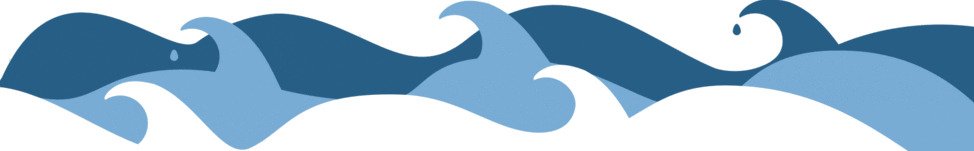
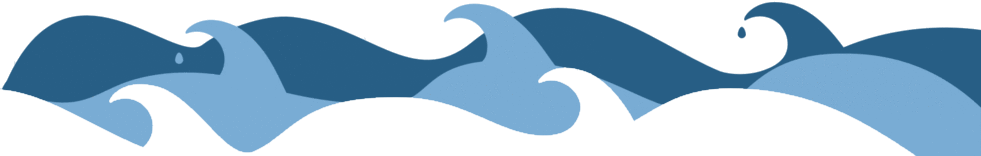
Added a sea

diff --git a/01.HTML5Canvas/JustFlappyBird/assets/js/main-browserified.js b/01.HTML5Canvas/JustFlappyBird/assets/js/main-browserified.js
@@ -10,6 +10,9 @@ var CONSTANTS = (function () {
 
         CLOUD_WIDTH: 256,
         CLOUD_HEIGHT: 256,
+
+        SEA_WIDTH: 981,
+        SEA_HEIGHT: 156
     }
 }());
 
@@ -109,7 +112,7 @@ var cloud = (function () {
                 this.scale = ((Math.random() * 5 | 0) + 1);
                 this.x = CONSTANTS.CANVAS_WIDTH - this.width;
                 this.y = 0;
-                this.speedX = 3;
+                this.speedX = 1;
 
                 return this;
             }
@@ -146,14 +149,31 @@ var sea = (function () {
             value: function (imagePath) {
                 this.image = new Image();
                 this.image.src = imagePath;
-                this.height = 256;
-                this.width = 256;
-                this.scale = ((Math.random() * 5 | 0) + 1);
-                this.x = CONSTANTS.CANVAS_WIDTH - this.width;
-                this.y = 0;
-                this.speedX = 3;
+                this.height = CONSTANTS.SEA_HEIGHT;
+                this.width = CONSTANTS.SEA_WIDTH;
+                this.scale = 0.9;
+                this.x = 0;
+                this.y = CONSTANTS.CANVAS_HEIGHT - this.height * 0.5 * this.scale;
+                this.speedX = 2;
 
                 return this;
+            }
+        },
+
+        update: {
+            value: function () {
+                this.x -= this.speedX;
+
+                if (this.x < -this.scale * this.width) {
+                    this.x = -50;
+                }
+            }
+        },
+
+        render: {
+            value: function (ctx) {
+                ctx.drawImage(this.image, this.x, this.y, this.scale * this.width, this.scale * this.height);
+                ctx.drawImage(this.image, this.x + this.scale * this.width - 50, this.y, this.scale * this.width, this.scale * this.height);
             }
         }
     });
@@ -167,7 +187,8 @@ window.onload = function () {
     var CONSTANTS = require('./common/constants.js');
     var bird = require('./game-objects/bird.js').init('assets/images/sprites/experiment.png');
     var cloud = require('./game-objects/cloud.js').init('assets/images/cloud.png');
-    var sea = require('./game-objects/sea.js').init('assets/images/sea.png');
+    var sea = require('./game-objects/sea.js').init('assets/images/sea-mod.png');
+
     var clouds = Array.apply(null, {length: 3})
         .map(function () {
             return Object.create(cloud);
@@ -219,9 +240,13 @@ window.onload = function () {
                 item.update();
             });
 
+            sea.update();
+
             clouds.forEach(function (item) {
                 item.render(ctx);
             });
+
+            sea.render(ctx);
             bird.render(ctx);
         }, 50);
     }

diff --git a/01.HTML5Canvas/JustFlappyBird/assets/js/game-objects/sea.js b/01.HTML5Canvas/JustFlappyBird/assets/js/game-objects/sea.js
@@ -6,14 +6,31 @@ var sea = (function () {
             value: function (imagePath) {
                 this.image = new Image();
                 this.image.src = imagePath;
-                this.height = 256;
-                this.width = 256;
-                this.scale = ((Math.random() * 5 | 0) + 1);
-                this.x = CONSTANTS.CANVAS_WIDTH - this.width;
-                this.y = 0;
-                this.speedX = 3;
+                this.height = CONSTANTS.SEA_HEIGHT;
+                this.width = CONSTANTS.SEA_WIDTH;
+                this.scale = 0.9;
+                this.x = 0;
+                this.y = CONSTANTS.CANVAS_HEIGHT - this.height * 0.5 * this.scale;
+                this.speedX = 2;
 
                 return this;
+            }
+        },
+
+        update: {
+            value: function () {
+                this.x -= this.speedX;
+
+                if (this.x < -this.scale * this.width) {
+                    this.x = -50;
+                }
+            }
+        },
+
+        render: {
+            value: function (ctx) {
+                ctx.drawImage(this.image, this.x, this.y, this.scale * this.width, this.scale * this.height);
+                ctx.drawImage(this.image, this.x + this.scale * this.width - 50, this.y, this.scale * this.width, this.scale * this.height);
             }
         }
     });

diff --git a/01.HTML5Canvas/JustFlappyBird/assets/js/main-node-style.js b/01.HTML5Canvas/JustFlappyBird/assets/js/main-node-style.js
@@ -2,7 +2,8 @@ window.onload = function () {
     var CONSTANTS = require('./common/constants.js');
     var bird = require('./game-objects/bird.js').init('assets/images/sprites/experiment.png');
     var cloud = require('./game-objects/cloud.js').init('assets/images/cloud.png');
-    var sea = require('./game-objects/sea.js').init('assets/images/sea.png');
+    var sea = require('./game-objects/sea.js').init('assets/images/sea-mod.png');
+
     var clouds = Array.apply(null, {length: 3})
         .map(function () {
             return Object.create(cloud);
@@ -54,9 +55,13 @@ window.onload = function () {
                 item.update();
             });
 
+            sea.update();
+
             clouds.forEach(function (item) {
                 item.render(ctx);
             });
+
+            sea.render(ctx);
             bird.render(ctx);
         }, 50);
     }

diff --git a/01.HTML5Canvas/JustFlappyBird/assets/js/game-objects/cloud.js b/01.HTML5Canvas/JustFlappyBird/assets/js/game-objects/cloud.js
@@ -11,7 +11,7 @@ var cloud = (function () {
                 this.scale = ((Math.random() * 5 | 0) + 1);
                 this.x = CONSTANTS.CANVAS_WIDTH - this.width;
                 this.y = 0;
-                this.speedX = 3;
+                this.speedX = 1;
 
                 return this;
             }

diff --git a/01.HTML5Canvas/JustFlappyBird/assets/js/common/constants.js b/01.HTML5Canvas/JustFlappyBird/assets/js/common/constants.js
@@ -9,6 +9,9 @@ var CONSTANTS = (function () {
 
         CLOUD_WIDTH: 256,
         CLOUD_HEIGHT: 256,
+
+        SEA_WIDTH: 981,
+        SEA_HEIGHT: 156
     }
 }());
 
